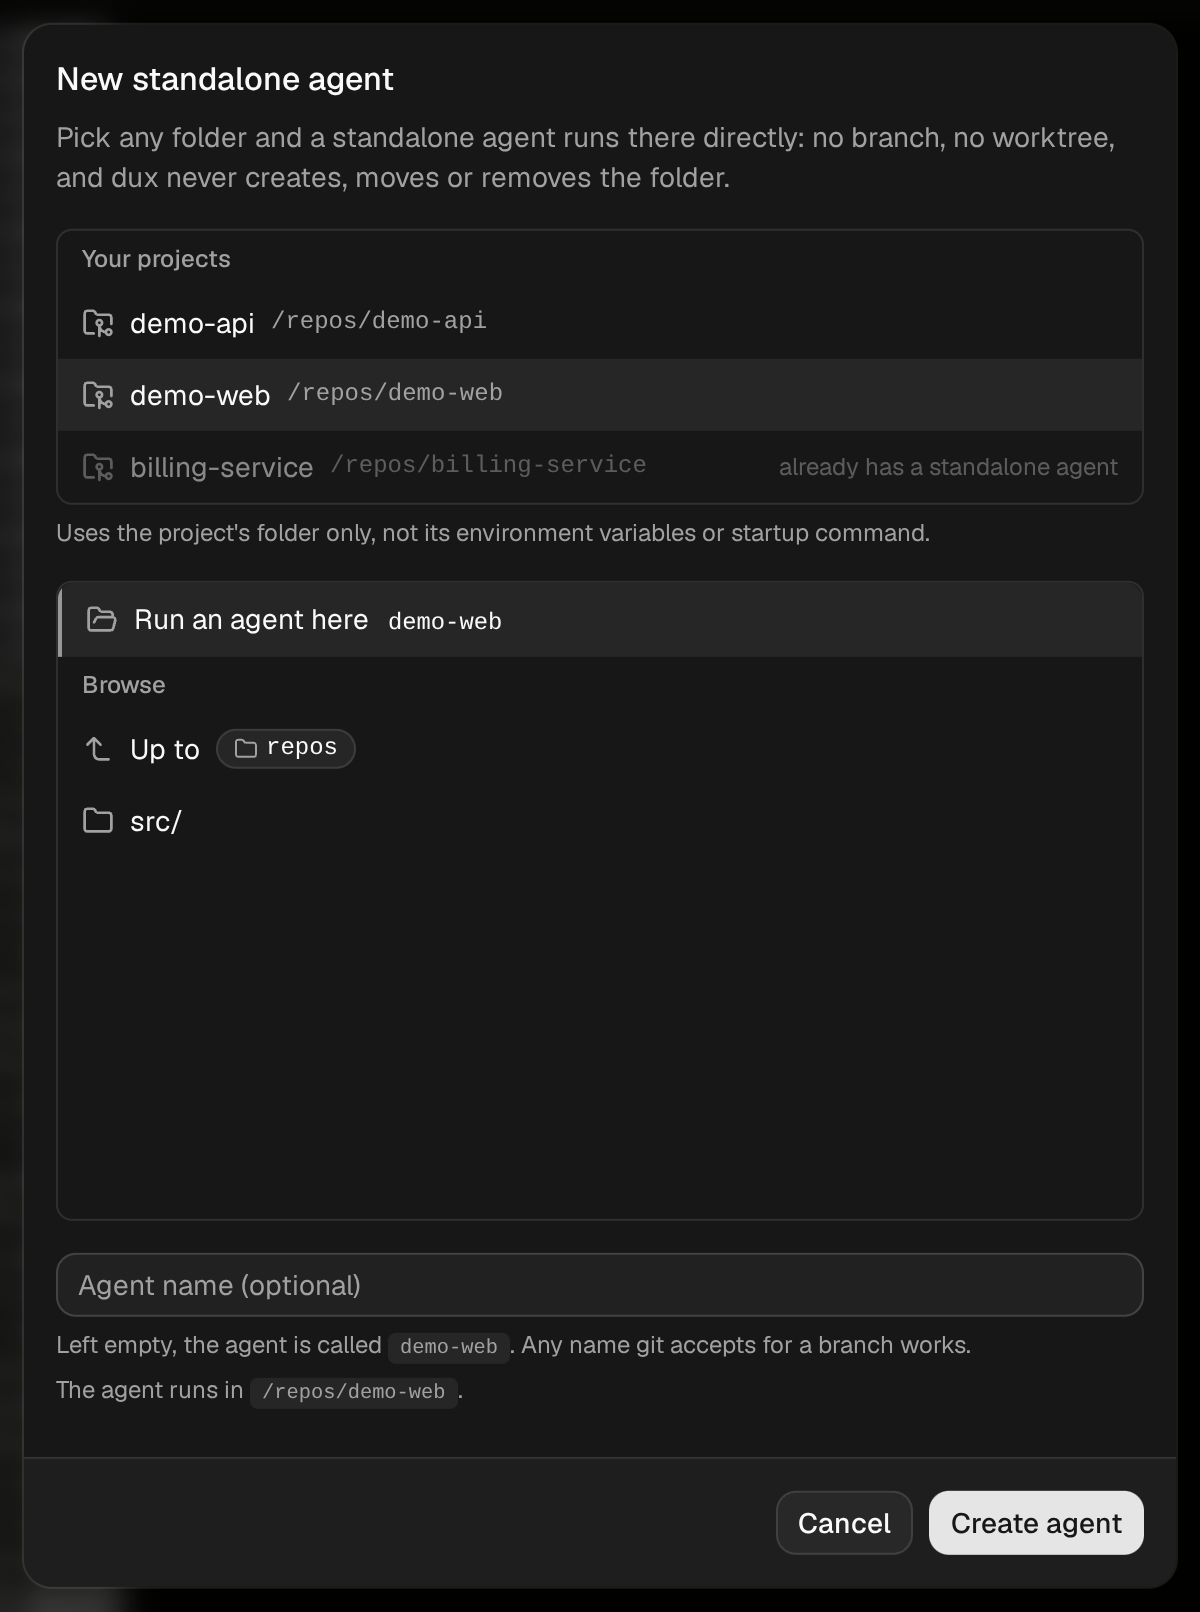
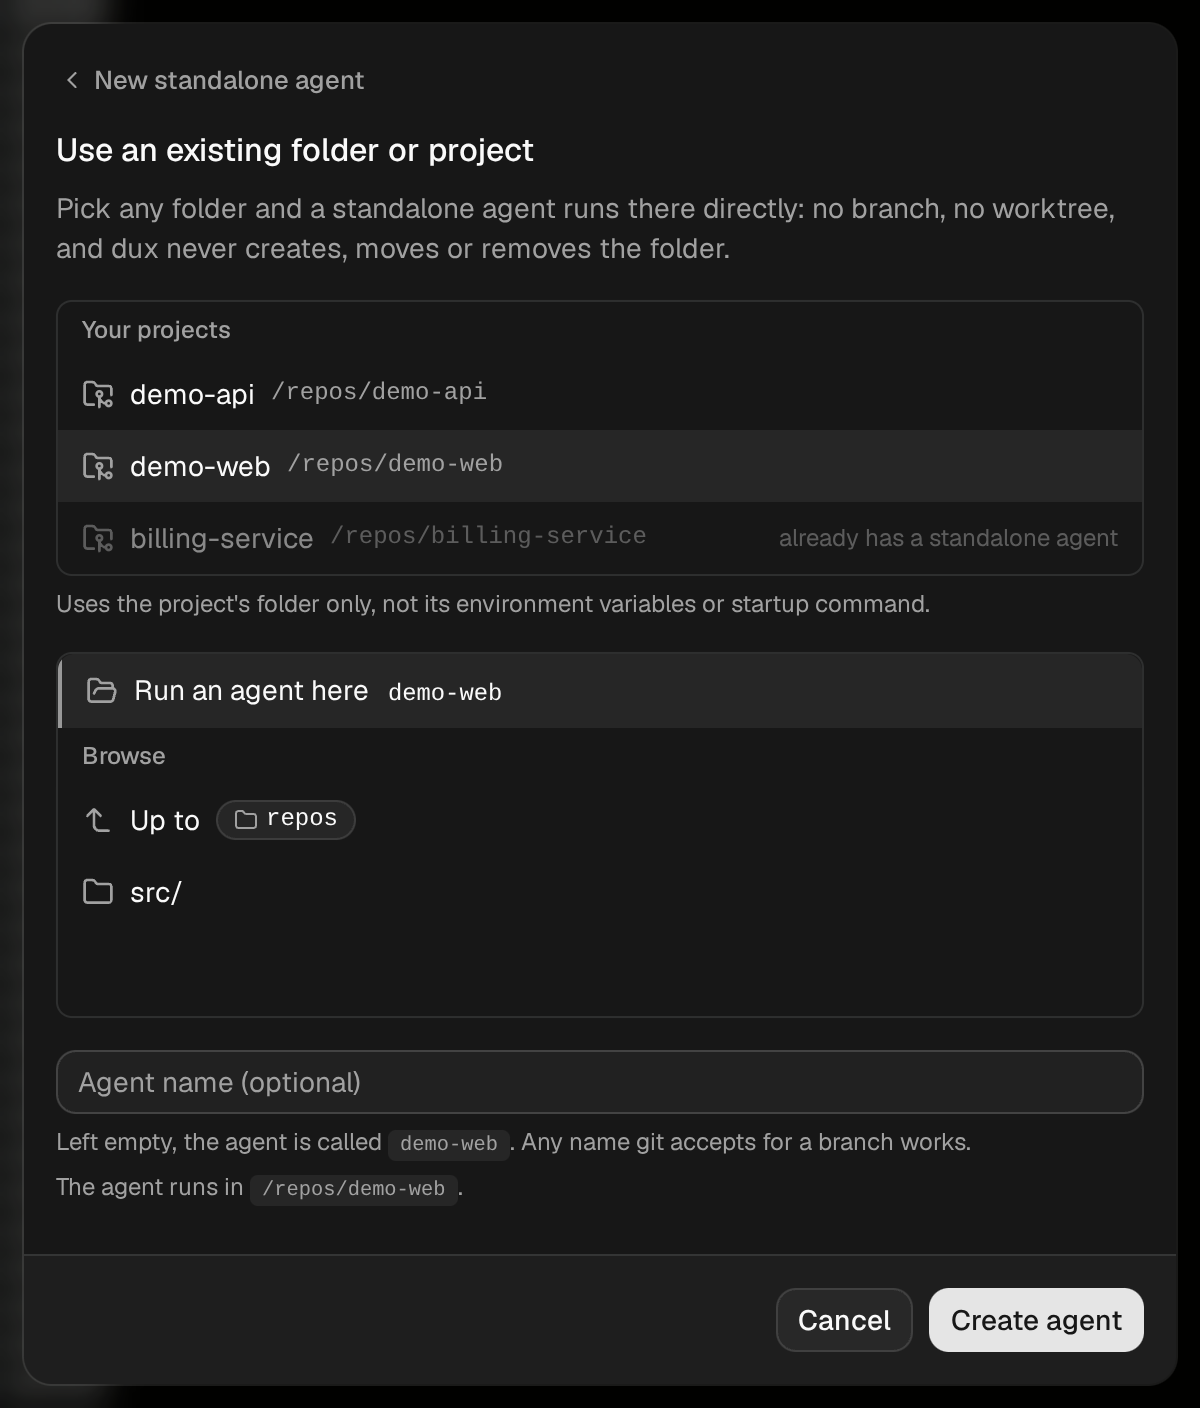
The four docs screenshots of starting a standalone agent are retaken for the name-first flow, and their journeys and the terminal UI capture driver reach the folder picker through the name step's button.

diff --git a/tools/preview-env/screens/scenes/standalone-project-shortcuts.js b/tools/preview-env/screens/scenes/standalone-project-shortcuts.js
@@ -1,11 +1,12 @@
-// The New standalone agent dialog with the project shortcuts over the folder
-// explorer: one project picked, so the explorer stands in its folder, and one
+// The New standalone agent dialog's existing-folder step, with the project
+// shortcuts over the folder explorer: one project picked, so the explorer stands in its folder, and one
 // greyed out because a standalone agent already works in its folder.
 const {
   agents,
   api,
   boxOf,
   clearToasts,
+  clickText,
   containerSh,
   expectDialogOpen,
   expectVisible,
@@ -90,6 +91,9 @@ module.exports = {
     await takeOver(page)
     await clearToasts(page)
     await openLauncherEntry(page, "new-standalone-agent")
+    // The entry asks for a name first; its button leads on to the folder step.
+    await expectDialogOpen(page, "New standalone agent")
+    await clickText(page, "^Use an existing folder or project…$", '[role="dialog"] button')
     await sleep(1500)
     const row = await page.evaluate((name) => {
       const button = [...document.querySelectorAll("[data-project-shortcut]")].find((b) =>
@@ -110,7 +114,7 @@ module.exports = {
     // The dialog, the list with its sentence, the row that cannot be picked
     // and why, and the explorer standing in the picked project's folder,
     // which is what the caption says the picture shows.
-    await expectDialogOpen(page, "New standalone agent")
+    await expectDialogOpen(page, "Use an existing folder or project")
     await expectVisibleText(page, "Your projects", { selector: '[role="dialog"] div' })
     await expectVisible(
       page,

diff --git a/tools/preview-env/tui-driver.js b/tools/preview-env/tui-driver.js
@@ -322,13 +322,25 @@ async function browseTo(absolutePath) {
   sendKeys("Enter")
 }
 
+/// Open the folder picker for a standalone agent: the key asks for a name for a
+/// folder dux creates, and the button under the name leads on to the picker.
+async function openStandaloneFolderPicker() {
+  await waitFor("New standalone agent")
+  // The focus key moves from the name to the button, which the confirm key
+  // presses.
+  sendKeys("Tab")
+  await waitFor("choose a folder")
+  sendKeys("Enter")
+  await waitFor("Standalone Agent In")
+}
+
 /// Create a standalone agent in a plain folder. An empty name means the folder's
 /// own name, which is what the screenshots show.
 async function createStandaloneAgent(absolutePath, label) {
   fs.mkdirSync(absolutePath, { recursive: true })
   await focusSidebar()
   sendKeys("s")
-  await waitFor("Standalone Agent In")
+  await openStandaloneFolderPicker()
   // With projects in the workspace (the driver always adds some) the picker
   // opens with its project list holding the keys, so the folder browser is
   // one focus key away: its footer names its own keys once it has them.
@@ -441,6 +453,7 @@ async function main() {
     createAgent,
     createStandaloneAgent,
     duxHome,
+    openStandaloneFolderPicker,
     focusPane,
     focusSidebar,
     palette,

diff --git a/tools/preview-env/screens/scenes/tui-standalone-project-shortcuts.js b/tools/preview-env/screens/scenes/tui-standalone-project-shortcuts.js
@@ -1,11 +1,20 @@
 // The standalone agent picker: the project chooser on top, with the keys, over
 // the folder explorer. One project is greyed out because a standalone agent
 // already works in its folder.
-module.exports = async ({ createStandaloneAgent, focusSidebar, palette, repos, sleep, waitFor }) => {
+module.exports = async ({
+  createStandaloneAgent,
+  focusSidebar,
+  openStandaloneFolderPicker,
+  palette,
+  repos,
+  sleep,
+  waitFor,
+}) => {
   await createStandaloneAgent(`${repos}/demo-web`, "demo-web")
   // dux focuses the new agent's pane, where a chord would be typed at the agent.
   await focusSidebar()
   await palette("new-standalone-agent")
+  await openStandaloneFolderPicker()
   await waitFor("Start In A Project's Folder", 15000)
   // The rows are read off the disk in the background and land a moment after
   // the picker opens.

diff --git a/tools/preview-env/screens/scenes/phone-new-sheet.js b/tools/preview-env/screens/scenes/phone-new-sheet.js
@@ -27,7 +27,7 @@ module.exports = {
     // The sheet with the Agents group the caption names and its sentences.
     await expectVisible(page, '[role="menu"]', "the launcher menu's sheet")
     await expectVisibleText(page, "New standalone agent…", { selector: '[role="menu"] span' })
-    await expectVisibleText(page, "Run an agent in any folder, no project or git needed.", {
+    await expectVisibleText(page, "Pick a name. dux creates a folder for it.", {
       selector: '[role="menu"] span',
     })
     return { x: 0, y: 0, width: 390, height: 844 }

diff --git a/tools/preview-env/README.md b/tools/preview-env/README.md
@@ -220,7 +220,7 @@ neighbours.
 
 `tui-journey.example.js` shows the journey contract. For a special capture,
 copy it to a throwaway `*.tmp.js` file and use the supplied `createAgent`,
-`createStandaloneAgent`, `palette`, `seedLooseWorktree`, `sendKeys`, `sendText`,
+`createStandaloneAgent`, `openStandaloneFolderPicker`, `palette`, `seedLooseWorktree`, `sendKeys`, `sendText`,
 `setFixture`, `captureText`, `sleep`, and `waitFor` helpers, plus the optional
 `config` export for a setting no dialog can reach and the optional `expectText`
 export, which refuses the capture unless those strings are on the screen it
